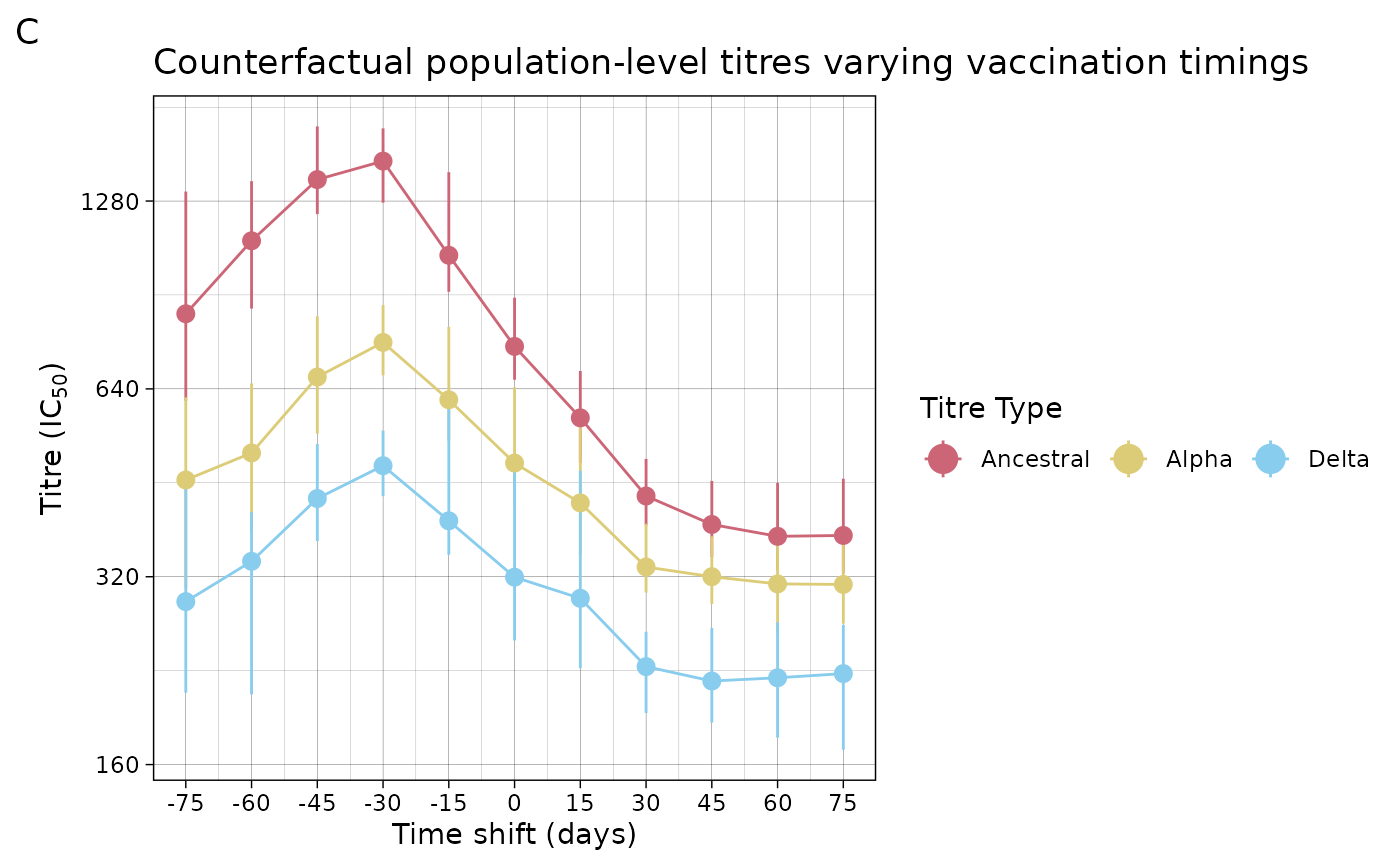
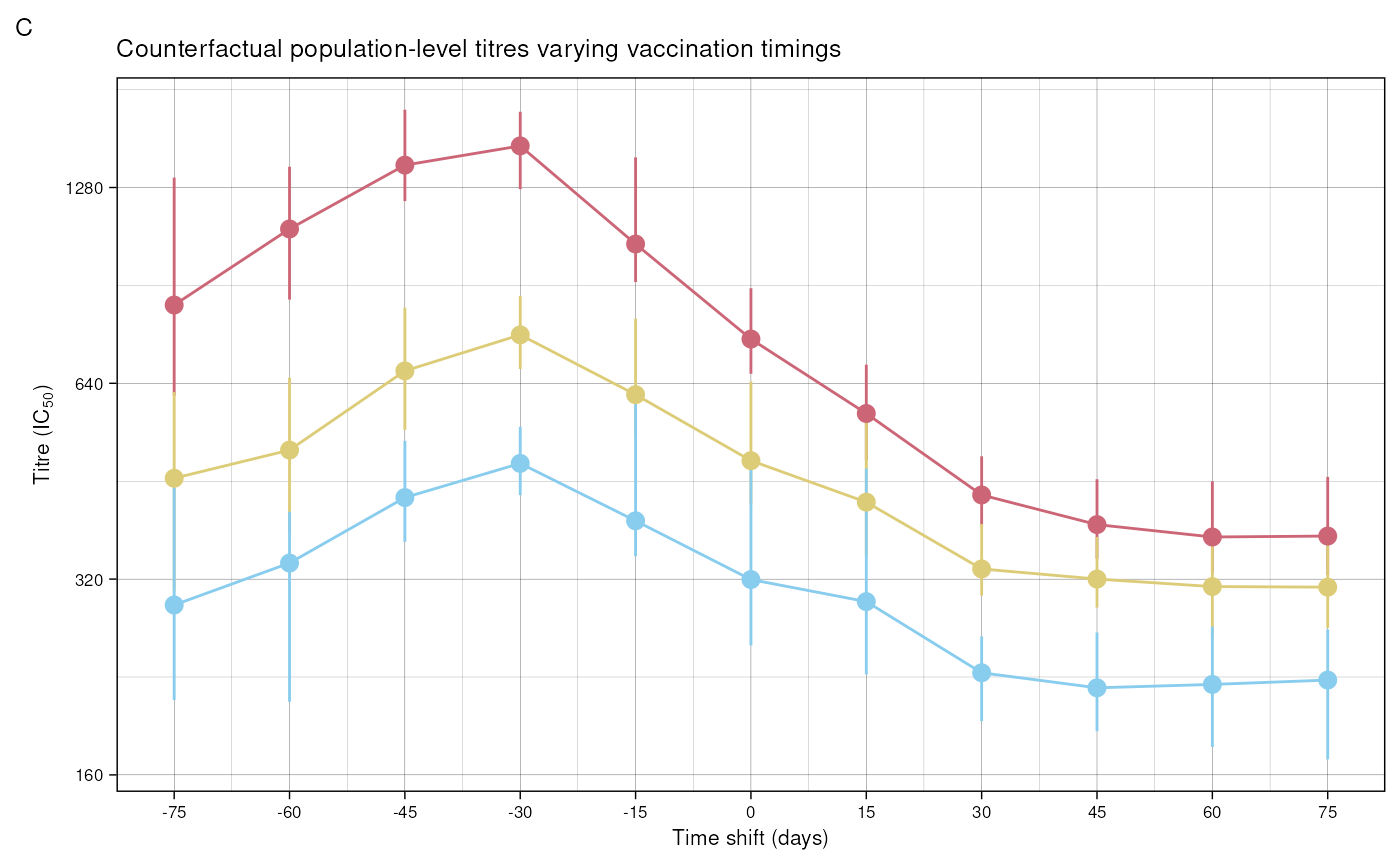
Deploying to gh-pages from @ seroanalytics/epikinetics@6c965b2d69bcf662bd8abac5be29f35317254af6 🚀

diff --git a/articles/scova.html b/articles/scova.html
@@ -86,7 +86,7 @@ figures</h1>
 </h2>
 <p>To initialise a model object, the only required argument is a path to
 the data in CSV format, or a <a href="%22https://cran.r-project.org/web/packages/data.table/index.html%22" class="external-link">data.table</a>.
-See <a href="../reference/scova.html">Scova</a> for all available
+See <a href="../reference/scova.html">scova</a> for all available
 arguments. In this Vignette we use a dataset representing the Delta wave
 which is installed with this package, specifying a hierarchical model
 that just looks at the effect of infection history.</p>
@@ -97,7 +97,6 @@ algorithm to limit the time it takes to compile this Vignette.</p>
 <div class="sourceCode" id="cb1"><pre class="downlit sourceCode r">
 <code class="sourceCode R"><span><span class="va">dat</span> <span class="op">&lt;-</span> <span class="fu">data.table</span><span class="fu">::</span><span class="fu"><a href="https://rdatatable.gitlab.io/data.table/reference/fread.html" class="external-link">fread</a></span><span class="op">(</span><span class="fu"><a href="https://rdrr.io/r/base/system.file.html" class="external-link">system.file</a></span><span class="op">(</span><span class="st">"delta_full.rds"</span>, package <span class="op">=</span> <span class="st">"epikinetics"</span><span class="op">)</span><span class="op">)</span></span>
 <span><span class="va">mod</span> <span class="op">&lt;-</span> <span class="fu">epikinetics</span><span class="fu">::</span><span class="va"><a href="../reference/scova.html">scova</a></span><span class="op">$</span><span class="fu">new</span><span class="op">(</span>data <span class="op">=</span> <span class="va">dat</span>, covariate_formula <span class="op">=</span> <span class="op">~</span><span class="fl">0</span> <span class="op">+</span> <span class="va">infection_history</span><span class="op">)</span></span>
-<span><span class="co">#&gt; CmdStan path set to: /home/runner/.cmdstan/cmdstan-2.35.0</span></span>
 <span><span class="va">delta</span> <span class="op">&lt;-</span> <span class="va">mod</span><span class="op">$</span><span class="fu">fit</span><span class="op">(</span>parallel_chains <span class="op">=</span> <span class="fl">4</span>,</span>
 <span>                 iter_warmup <span class="op">=</span> <span class="fl">50</span>,</span>
 <span>                 iter_sampling <span class="op">=</span> <span class="fl">200</span>,</span>
@@ -120,11 +119,6 @@ algorithm to limit the time it takes to compile this Vignette.</p>
 <span><span class="co">#&gt; Chain 2            adapt_window = 38 </span></span>
 <span><span class="co">#&gt; Chain 2            term_buffer = 5 </span></span>
 <span><span class="co">#&gt; Chain 2 Iteration:   1 / 250 [  0%]  (Warmup)</span></span>
-<span><span class="co">#&gt; Chain 2 Informational Message: The current Metropolis proposal is about to be rejected because of the following issue:</span></span>
-<span><span class="co">#&gt; Chain 2 Exception: normal_lpdf: Location parameter[4] is inf, but must be finite! (in '/tmp/RtmpxdR2o0/model-27ad5a615889.stan', line 149, column 2 to column 52)</span></span>
-<span><span class="co">#&gt; Chain 2 If this warning occurs sporadically, such as for highly constrained variable types like covariance matrices, then the sampler is fine,</span></span>
-<span><span class="co">#&gt; Chain 2 but if this warning occurs often then your model may be either severely ill-conditioned or misspecified.</span></span>
-<span><span class="co">#&gt; Chain 2</span></span>
 <span><span class="co">#&gt; Chain 3 WARNING: There aren't enough warmup iterations to fit the </span></span>
 <span><span class="co">#&gt; Chain 3          three stages of adaptation as currently configured. </span></span>
 <span><span class="co">#&gt; Chain 3          Reducing each adaptation stage to 15%/75%/10% of </span></span>
@@ -133,11 +127,6 @@ algorithm to limit the time it takes to compile this Vignette.</p>
 <span><span class="co">#&gt; Chain 3            adapt_window = 38 </span></span>
 <span><span class="co">#&gt; Chain 3            term_buffer = 5 </span></span>
 <span><span class="co">#&gt; Chain 3 Iteration:   1 / 250 [  0%]  (Warmup)</span></span>
-<span><span class="co">#&gt; Chain 3 Informational Message: The current Metropolis proposal is about to be rejected because of the following issue:</span></span>
-<span><span class="co">#&gt; Chain 3 Exception: normal_lpdf: Location parameter[5] is inf, but must be finite! (in '/tmp/RtmpxdR2o0/model-27ad5a615889.stan', line 149, column 2 to column 52)</span></span>
-<span><span class="co">#&gt; Chain 3 If this warning occurs sporadically, such as for highly constrained variable types like covariance matrices, then the sampler is fine,</span></span>
-<span><span class="co">#&gt; Chain 3 but if this warning occurs often then your model may be either severely ill-conditioned or misspecified.</span></span>
-<span><span class="co">#&gt; Chain 3</span></span>
 <span><span class="co">#&gt; Chain 4 WARNING: There aren't enough warmup iterations to fit the </span></span>
 <span><span class="co">#&gt; Chain 4          three stages of adaptation as currently configured. </span></span>
 <span><span class="co">#&gt; Chain 4          Reducing each adaptation stage to 15%/75%/10% of </span></span>
@@ -146,33 +135,26 @@ algorithm to limit the time it takes to compile this Vignette.</p>
 <span><span class="co">#&gt; Chain 4            adapt_window = 38 </span></span>
 <span><span class="co">#&gt; Chain 4            term_buffer = 5 </span></span>
 <span><span class="co">#&gt; Chain 4 Iteration:   1 / 250 [  0%]  (Warmup)</span></span>
-<span><span class="co">#&gt; Chain 4 Informational Message: The current Metropolis proposal is about to be rejected because of the following issue:</span></span>
-<span><span class="co">#&gt; Chain 4 Exception: normal_lpdf: Location parameter[57] is inf, but must be finite! (in '/tmp/RtmpxdR2o0/model-27ad5a615889.stan', line 149, column 2 to column 52)</span></span>
-<span><span class="co">#&gt; Chain 4 If this warning occurs sporadically, such as for highly constrained variable types like covariance matrices, then the sampler is fine,</span></span>
-<span><span class="co">#&gt; Chain 4 but if this warning occurs often then your model may be either severely ill-conditioned or misspecified.</span></span>
-<span><span class="co">#&gt; Chain 4</span></span>
 <span><span class="co">#&gt; Chain 1 Iteration:  51 / 250 [ 20%]  (Sampling) </span></span>
 <span><span class="co">#&gt; Chain 3 Iteration:  51 / 250 [ 20%]  (Sampling) </span></span>
 <span><span class="co">#&gt; Chain 2 Iteration:  51 / 250 [ 20%]  (Sampling) </span></span>
 <span><span class="co">#&gt; Chain 4 Iteration:  51 / 250 [ 20%]  (Sampling) </span></span>
 <span><span class="co">#&gt; Chain 1 Iteration: 150 / 250 [ 60%]  (Sampling) </span></span>
-<span><span class="co">#&gt; Chain 2 Iteration: 150 / 250 [ 60%]  (Sampling) </span></span>
 <span><span class="co">#&gt; Chain 3 Iteration: 150 / 250 [ 60%]  (Sampling) </span></span>
+<span><span class="co">#&gt; Chain 2 Iteration: 150 / 250 [ 60%]  (Sampling) </span></span>
 <span><span class="co">#&gt; Chain 4 Iteration: 150 / 250 [ 60%]  (Sampling) </span></span>
 <span><span class="co">#&gt; Chain 1 Iteration: 250 / 250 [100%]  (Sampling) </span></span>
-<span><span class="co">#&gt; Chain 1 finished in 246.8 seconds.</span></span>
-<span><span class="co">#&gt; Chain 2 Iteration: 250 / 250 [100%]  (Sampling) </span></span>
 <span><span class="co">#&gt; Chain 3 Iteration: 250 / 250 [100%]  (Sampling) </span></span>
+<span><span class="co">#&gt; Chain 2 Iteration: 250 / 250 [100%]  (Sampling) </span></span>
+<span><span class="co">#&gt; Chain 1 finished in 251.5 seconds.</span></span>
+<span><span class="co">#&gt; Chain 3 finished in 251.6 seconds.</span></span>
+<span><span class="co">#&gt; Chain 2 finished in 251.8 seconds.</span></span>
 <span><span class="co">#&gt; Chain 4 Iteration: 250 / 250 [100%]  (Sampling) </span></span>
-<span><span class="co">#&gt; Chain 2 finished in 251.1 seconds.</span></span>
-<span><span class="co">#&gt; Chain 4 finished in 251.1 seconds.</span></span>
-<span><span class="co">#&gt; Chain 3 finished in 251.2 seconds.</span></span>
+<span><span class="co">#&gt; Chain 4 finished in 254.2 seconds.</span></span>
 <span><span class="co">#&gt; </span></span>
 <span><span class="co">#&gt; All 4 chains finished successfully.</span></span>
-<span><span class="co">#&gt; Mean chain execution time: 250.1 seconds.</span></span>
-<span><span class="co">#&gt; Total execution time: 251.4 seconds.</span></span>
-<span><span class="co">#&gt; Warning: 800 of 800 (100.0%) transitions hit the maximum treedepth limit of 10.</span></span>
-<span><span class="co">#&gt; See https://mc-stan.org/misc/warnings for details.</span></span></code></pre></div>
+<span><span class="co">#&gt; Mean chain execution time: 252.3 seconds.</span></span>
+<span><span class="co">#&gt; Total execution time: 254.4 seconds.</span></span></code></pre></div>
 </div>
 <div class="section level2">
 <h2 id="figure-2">Figure 2<a class="anchor" aria-label="anchor" href="#figure-2"></a>
@@ -192,6 +174,8 @@ population trajectories using the fitted population parameters.</p>
 <span><span class="co">#&gt; 4:     3     1     1 221.98993 173.94588 277.0610   Infection naive  Ancestral</span></span>
 <span><span class="co">#&gt; 5:     4     1     1 302.97036 238.14148 381.2043   Infection naive  Ancestral</span></span>
 <span><span class="co">#&gt; 6:     5     1     1 417.55537 325.74862 544.8846   Infection naive  Ancestral</span></span></code></pre></div>
+<p>See <a href="data.html">data</a> for the definition of the returned
+columns.</p>
 <p>Using <code>ggplot2</code>:</p>
 <div class="sourceCode" id="cb3"><pre class="downlit sourceCode r">
 <code class="sourceCode R"><span><span class="kw"><a href="https://rdrr.io/r/base/library.html" class="external-link">library</a></span><span class="op">(</span><span class="va"><a href="https://ggplot2.tidyverse.org" class="external-link">ggplot2</a></span><span class="op">)</span></span>
@@ -287,7 +271,8 @@ simulate estimates for these from the fitted model:</p>
 <p>The values we’re going to plot are the mean peak titre values
 (<code>mu_p_me</code>) and mean set point titre values
 (<code>mu_s_me</code>), for different titre types and infection
-histories. Using <code>ggplot2</code>:</p>
+histories. See <a href="data.html">data</a> for a full definition of all
+the returned columns. Using <code>ggplot2</code>:</p>
 <div class="sourceCode" id="cb5"><pre class="downlit sourceCode r">
 <code class="sourceCode R"><span><span class="va">plot_data</span> <span class="op">&lt;-</span> <span class="va">res</span><span class="op">[</span>, <span class="va">titre_type</span> <span class="op">:=</span> <span class="fu">forcats</span><span class="fu">::</span><span class="fu"><a href="https://forcats.tidyverse.org/reference/fct_relevel.html" class="external-link">fct_relevel</a></span><span class="op">(</span></span>
 <span>  <span class="va">titre_type</span>,</span>
@@ -352,9 +337,10 @@ maximum number of draws to just 250 for speed.</p>
 <span><span class="co">#&gt; 4:    2021-03-11  Ancestral 1121.402 878.6975 1447.972</span></span>
 <span><span class="co">#&gt; 5:    2021-03-12  Ancestral 1115.039 851.9412 1443.723</span></span>
 <span><span class="co">#&gt; 6:    2021-03-13  Ancestral 1150.059 900.9269 1520.740</span></span></code></pre></div>
-<p>Figure 5 A plots the derived trend. Here we replicate a portion of
-the graph from the paper, from the minimum date in the dataset until the
-date at which the next variant emerged.</p>
+<p>See <a href="data.html">data</a> for a definition of all the returned
+columns. Figure 5 A plots the derived population trajectories. Here we
+replicate a portion of the graph from the paper, from the minimum date
+in the dataset until the date at which the next variant emerged.</p>
 <div class="sourceCode" id="cb7"><pre class="downlit sourceCode r">
 <code class="sourceCode R"><span><span class="va">date_delta</span> <span class="op">&lt;-</span> <span class="fu">lubridate</span><span class="fu">::</span><span class="fu"><a href="https://lubridate.tidyverse.org/reference/ymd.html" class="external-link">ymd</a></span><span class="op">(</span><span class="st">"2021-05-07"</span><span class="op">)</span></span>
 <span><span class="va">date_ba2</span> <span class="op">&lt;-</span> <span class="fu">lubridate</span><span class="fu">::</span><span class="fu"><a href="https://lubridate.tidyverse.org/reference/ymd.html" class="external-link">ymd</a></span><span class="op">(</span><span class="st">"2022-01-24"</span><span class="op">)</span></span>
@@ -404,7 +390,7 @@ date at which the next variant emerged.</p>
 <span>        colour <span class="op">=</span> <span class="va">titre_type</span>,</span>
 <span>        group <span class="op">=</span> <span class="fu"><a href="https://rdrr.io/r/base/interaction.html" class="external-link">interaction</a></span><span class="op">(</span><span class="va">titre_type</span>, <span class="va">wave</span><span class="op">)</span><span class="op">)</span>,</span>
 <span>    alpha <span class="op">=</span> <span class="fl">0.5</span>, span <span class="op">=</span> <span class="fl">0.2</span><span class="op">)</span> <span class="op">+</span></span>
-<span>  <span class="fu"><a href="https://ggplot2.tidyverse.org/reference/ggtheme.html" class="external-link">theme_linedraw</a></span><span class="op">(</span><span class="op">)</span> <span class="op">+</span></span>
+<span>  <span class="va">custom_theme</span> <span class="op">+</span></span>
 <span>  <span class="fu"><a href="https://ggplot2.tidyverse.org/reference/guides.html" class="external-link">guides</a></span><span class="op">(</span>colour <span class="op">=</span> <span class="fu"><a href="https://ggplot2.tidyverse.org/reference/guide_legend.html" class="external-link">guide_legend</a></span><span class="op">(</span>title <span class="op">=</span> <span class="st">"Titre type"</span><span class="op">)</span><span class="op">)</span></span>
 <span><span class="co">#&gt; `geom_smooth()` using method = 'loess' and formula = 'y ~ x'</span></span></code></pre></div>
 <p><img src="scova_files/figure-html/unnamed-chunk-8-1.png" width="700"></p>
@@ -449,7 +435,8 @@ draws to just 50 for speed.</p>
 <span>  <span class="fu"><a href="https://ggplot2.tidyverse.org/reference/labs.html" class="external-link">labs</a></span><span class="op">(</span>title <span class="op">=</span> <span class="st">"Population titre values varying vaccine timings"</span>,</span>
 <span>       x <span class="op">=</span> <span class="st">"Time shift (days)"</span>,</span>
 <span>       y <span class="op">=</span> <span class="fu"><a href="https://rdrr.io/r/base/expression.html" class="external-link">expression</a></span><span class="op">(</span><span class="fu"><a href="https://rdrr.io/r/base/paste.html" class="external-link">paste</a></span><span class="op">(</span><span class="st">"Titre (IC"</span><span class="op">[</span><span class="fl">50</span><span class="op">]</span>, <span class="st">")"</span><span class="op">)</span><span class="op">)</span><span class="op">)</span> <span class="op">+</span></span>
-<span>  <span class="fu"><a href="https://ggplot2.tidyverse.org/reference/ggtheme.html" class="external-link">theme_linedraw</a></span><span class="op">(</span><span class="op">)</span> <span class="op">+</span></span>
+<span>  <span class="va">custom_theme</span> <span class="op">+</span></span>
+<span>  <span class="fu"><a href="https://ggplot2.tidyverse.org/reference/theme.html" class="external-link">theme</a></span><span class="op">(</span>legend.position <span class="op">=</span> <span class="st">"none"</span><span class="op">)</span> <span class="op">+</span></span>
 <span>  <span class="fu"><a href="https://ggplot2.tidyverse.org/reference/guides.html" class="external-link">guides</a></span><span class="op">(</span>colour <span class="op">=</span> <span class="fu"><a href="https://ggplot2.tidyverse.org/reference/guide_legend.html" class="external-link">guide_legend</a></span><span class="op">(</span>title <span class="op">=</span> <span class="st">"Titre Type"</span>, nrow <span class="op">=</span> <span class="fl">1</span>, override.aes <span class="op">=</span> <span class="fu"><a href="https://rdrr.io/r/base/list.html" class="external-link">list</a></span><span class="op">(</span>alpha <span class="op">=</span> <span class="fl">1</span>, size <span class="op">=</span> <span class="fl">1</span><span class="op">)</span><span class="op">)</span><span class="op">)</span> <span class="op">+</span></span>
 <span>  <span class="fu"><a href="https://ggplot2.tidyverse.org/reference/labs.html" class="external-link">labs</a></span><span class="op">(</span>tag <span class="op">=</span> <span class="st">"C"</span>,</span>
 <span>       title <span class="op">=</span> <span class="st">"Counterfactual population-level titres varying vaccination timings"</span><span class="op">)</span></span></code></pre></div>
